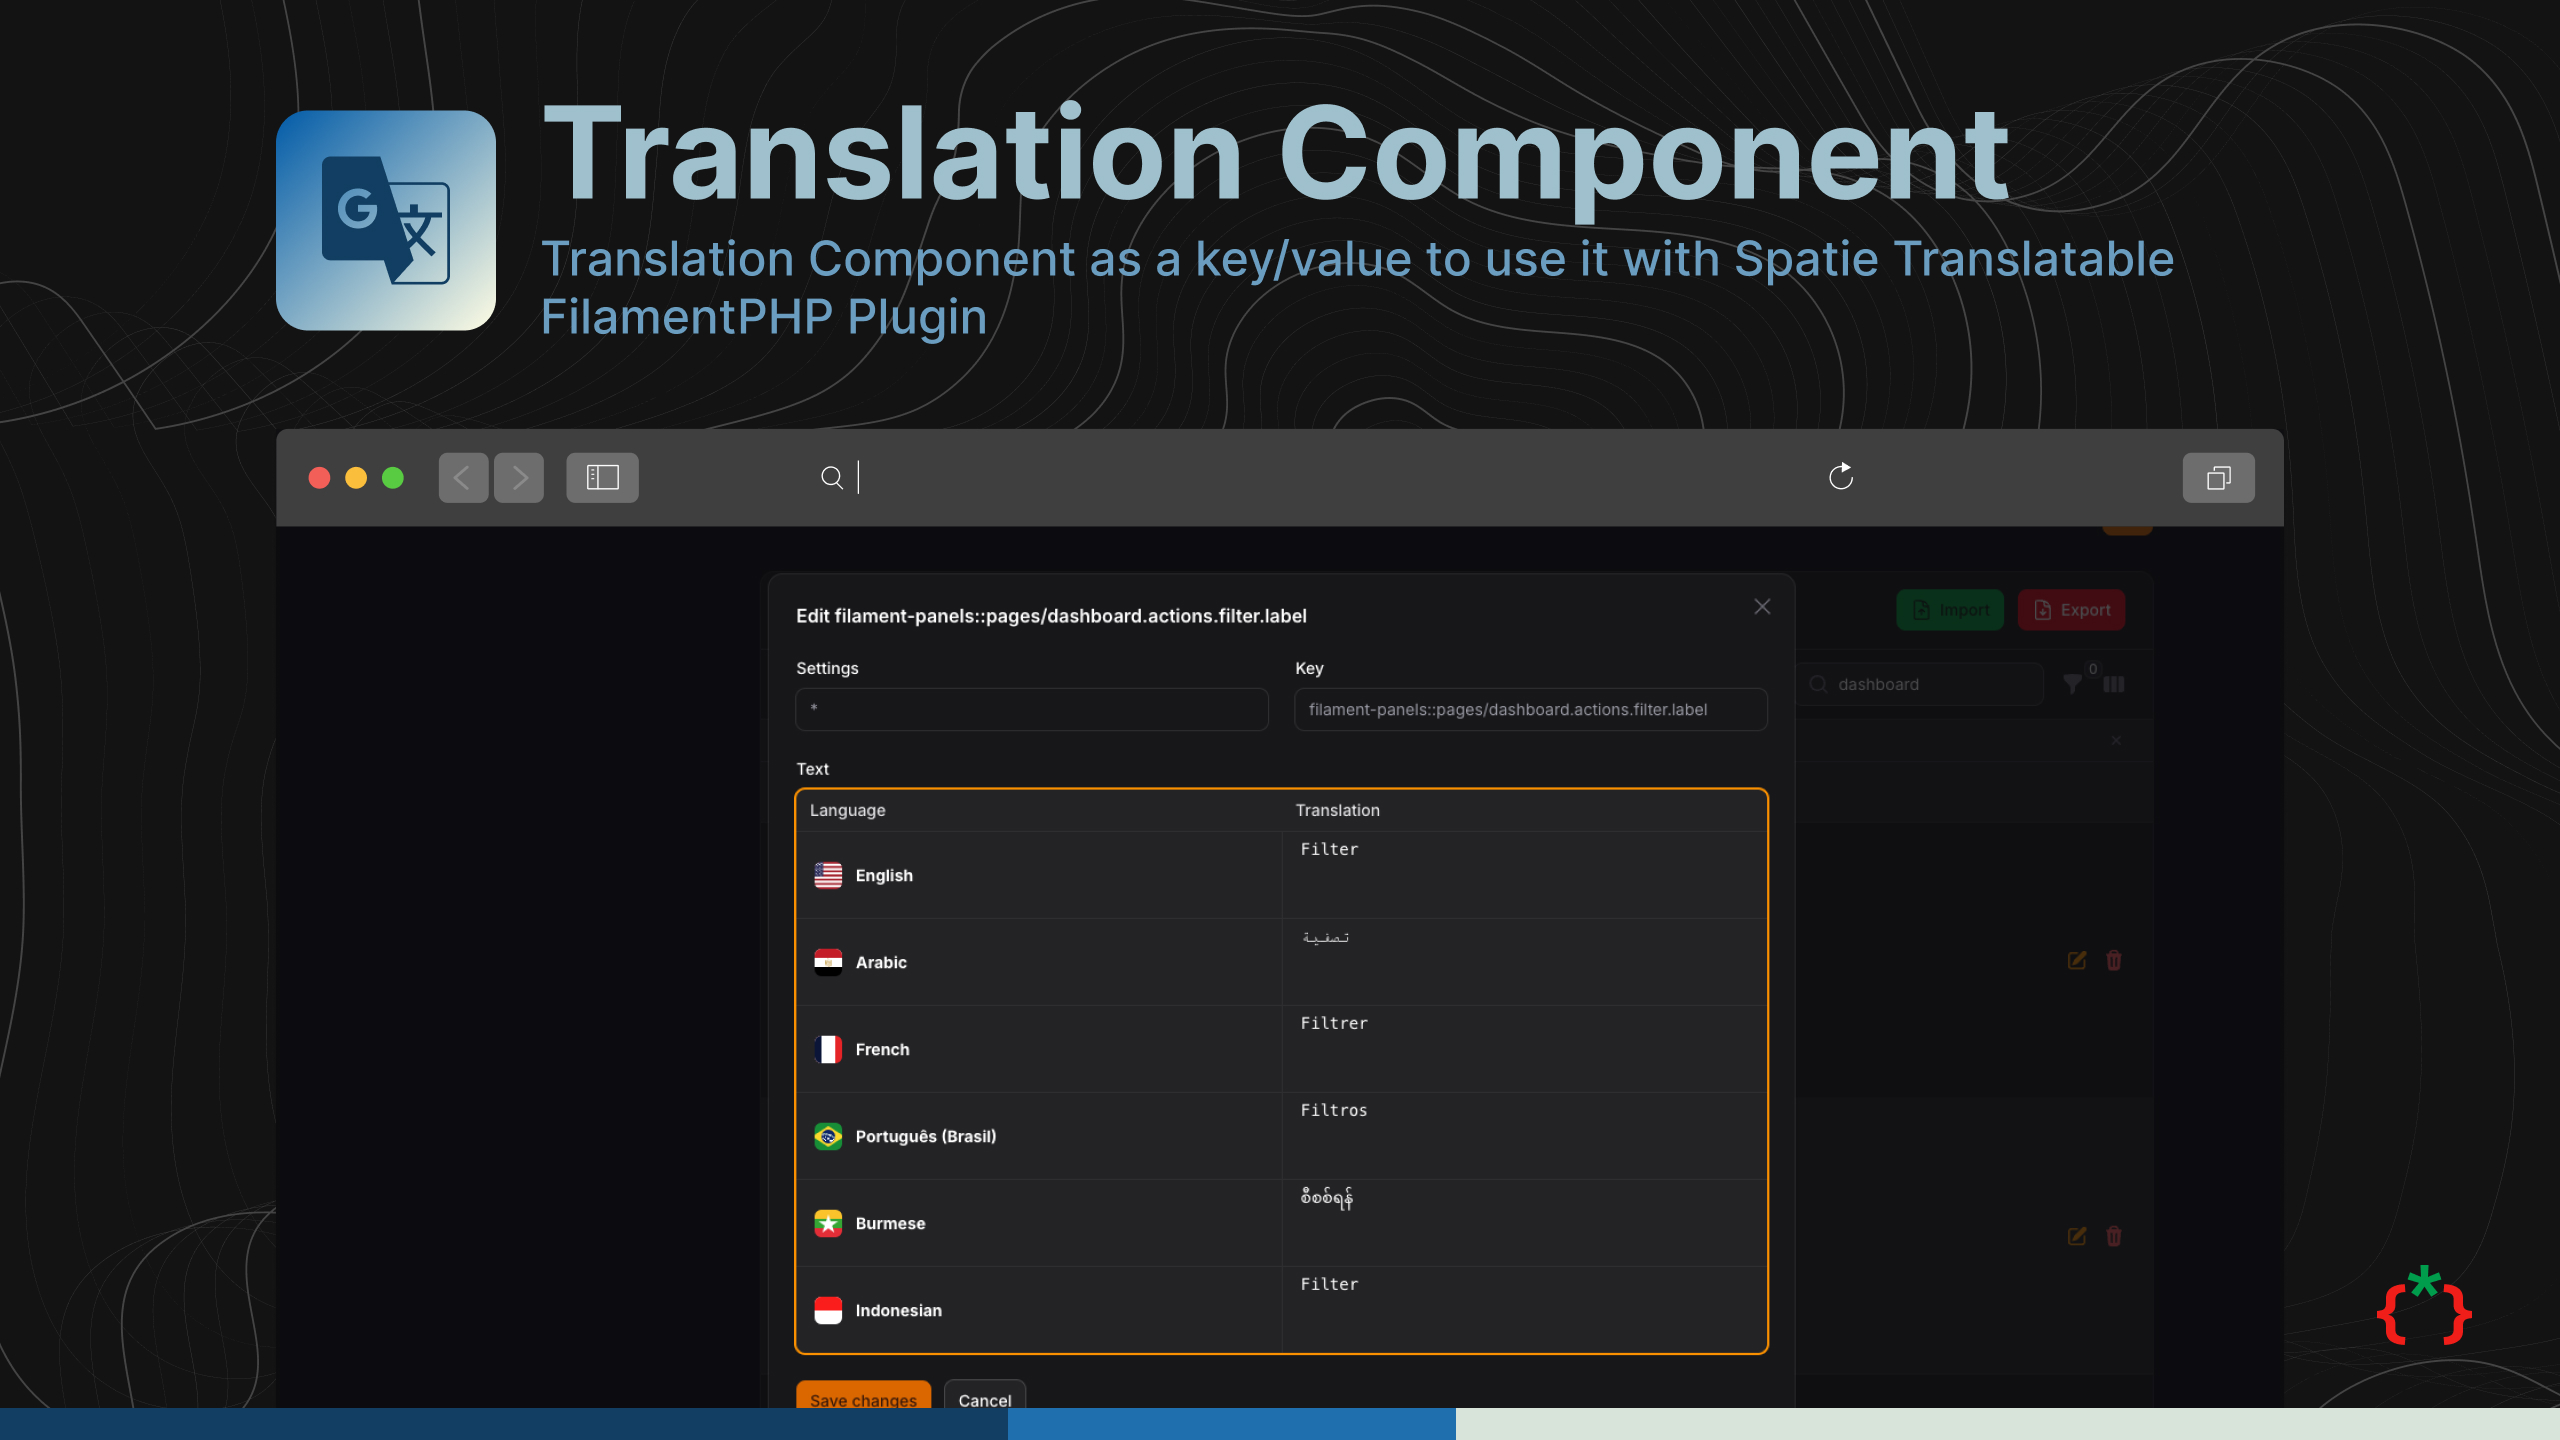
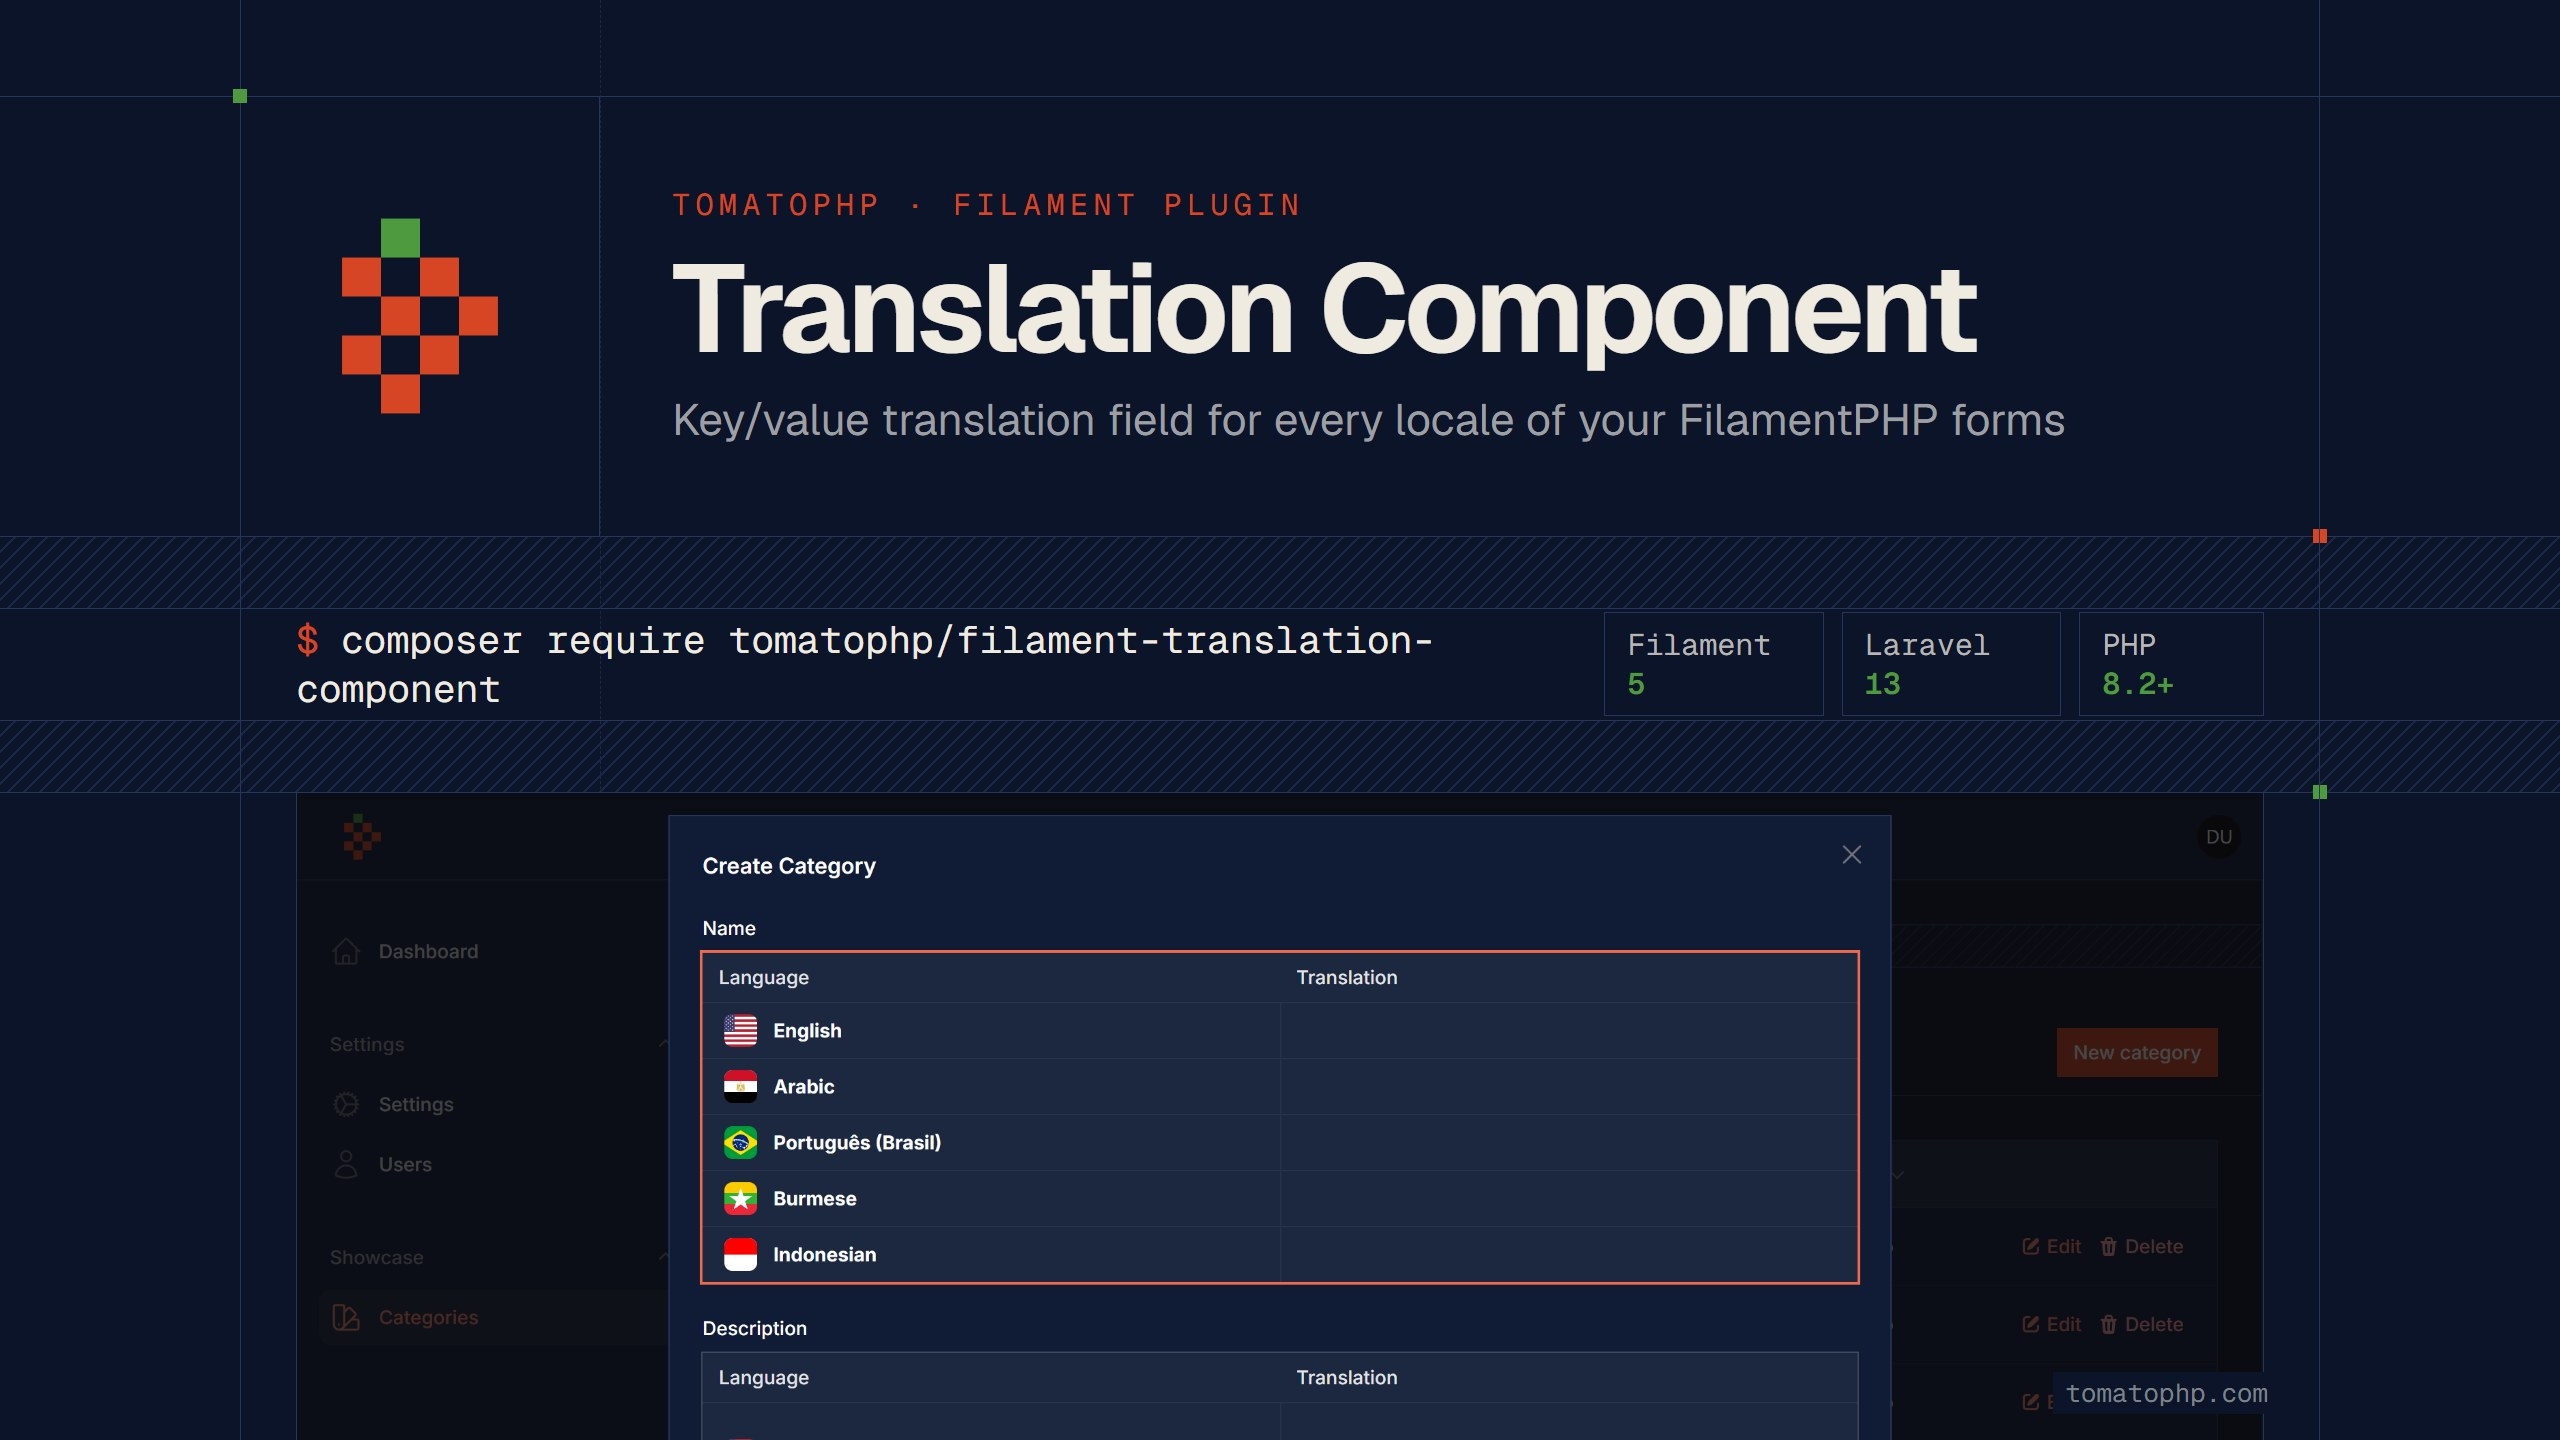
docs: new TomatoPHP cover and demo screenshots

diff --git a/README.md b/README.md
@@ -14,6 +14,11 @@ Translation Component as a key/value to use it with Spatie Translatable Filament
 
 ## Screenshots
 
+Try it live on [demo.tomatophp.com](https://demo.tomatophp.com).
+
+![Demo dark](https://raw.githubusercontent.com/tomatophp/filament-translation-component/master/arts/demo-dark.png)
+![Demo light](https://raw.githubusercontent.com/tomatophp/filament-translation-component/master/arts/demo-light.png)
+
 ![Light Textarea](https://raw.githubusercontent.com/tomatophp/filament-translation-component/master/arts/textarea-light.png)
 ![Dark Textarea](https://raw.githubusercontent.com/tomatophp/filament-translation-component/master/arts/textarea-dark.png)
 ![Light Input](https://raw.githubusercontent.com/tomatophp/filament-translation-component/master/arts/input-light.png)
